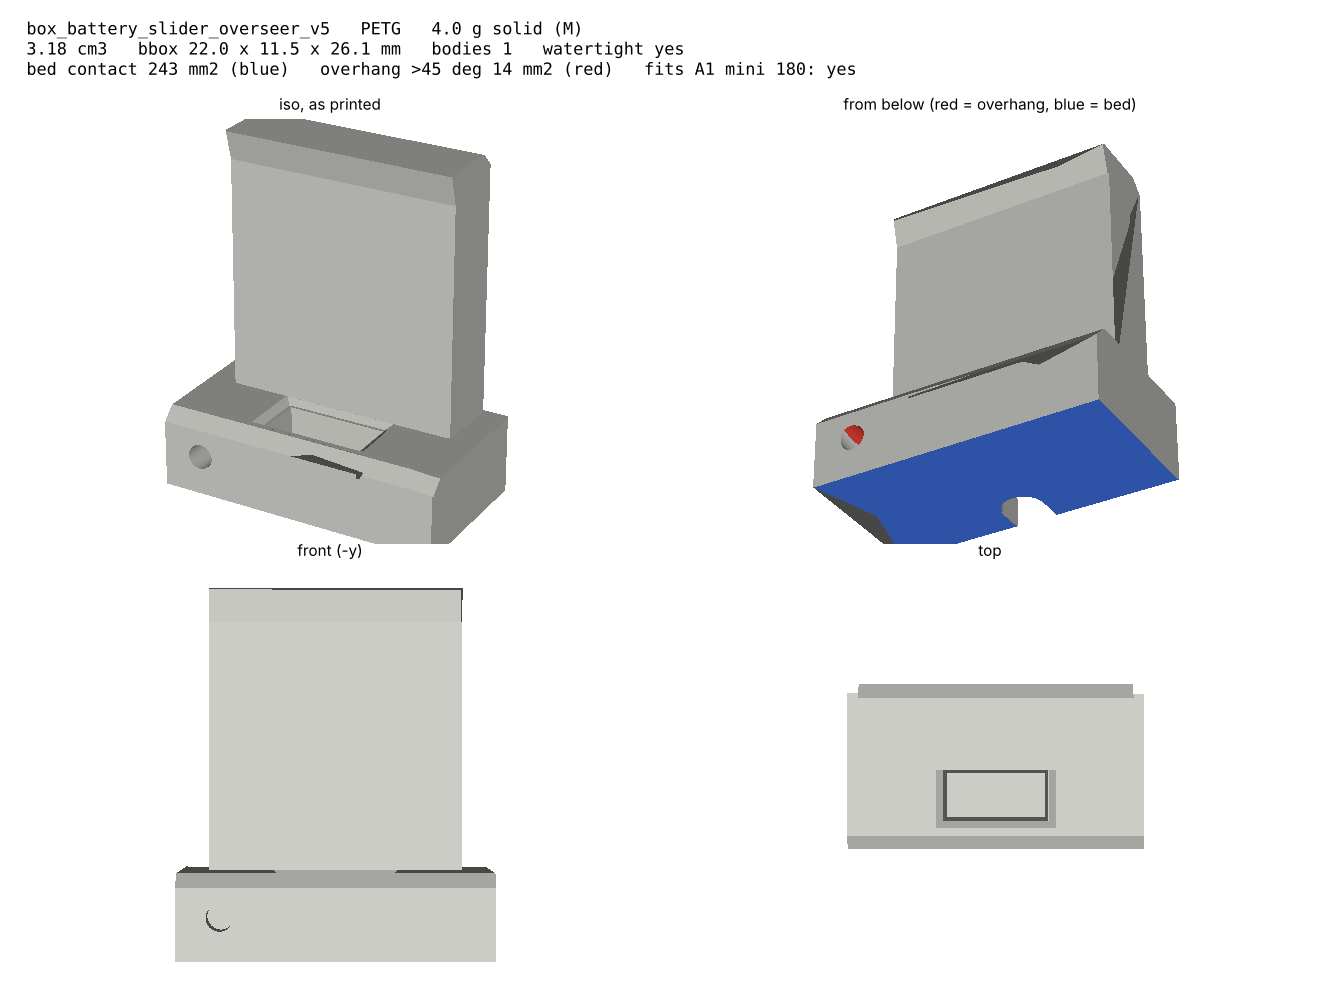
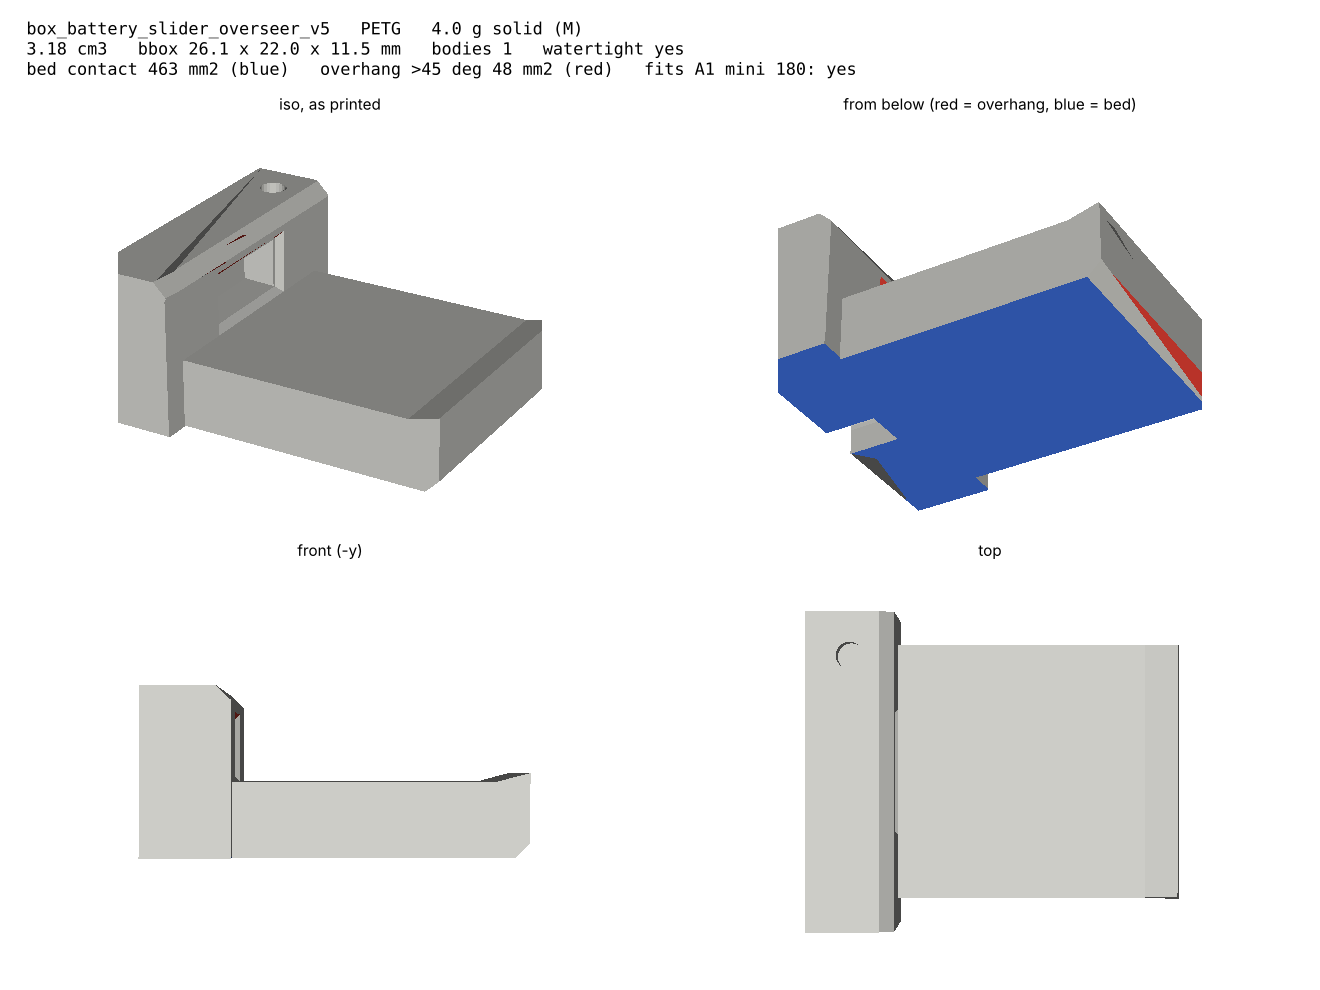
battery latch v1: sliders print bar top down (largest face), previews from the print files
Claude-Session: https://claude.ai/code/session_01MaK9mf9AZsHwQbiCFQxZ1G

diff --git a/nox/box/battery_latch.py b/nox/box/battery_latch.py
@@ -806,7 +806,7 @@ def _rot(axis, deg):
 
 PIECES = {   # name: (getter, material, print pose (c -> print), count, version, bed face)
     "cartridge": (lambda B: B["cart"], "PETG", np.eye(4), 1, "v5", "closed end (z 0) down"),
-    "slider": (lambda B: slider(B["g"], 0, 1), "PETG", _rot("y", -90), 2, "v5", "inner tab face down"),
+    "slider": (lambda B: slider(B["g"], 0, 1), "PETG", _rot("x", -90), 2, "v5", "bar top (y 11.5) down: largest face, bar layers along its length"),
     "receiver": (lambda B: B["recv"], "PETG", np.eye(4), 1, "v1", "closed-end face down"),
     "receiver_lid": (lambda B: B["lid"], "PETG", _rot("x", -90), 1, "v1", "top face down"),
     "receiver_strip": (lambda B: U(*[box(*sorted((B["r"]["X_IN"] - 1.55, B["r"]["RF"] - 0.05)), B["r"]["Y_TOP"], B["r"]["Y_TOP"] + STRIP_T,

diff --git a/runs/battery_latch/v1/summary.md b/runs/battery_latch/v1/summary.md
@@ -8,13 +8,13 @@ System: Scout v3 (pass 1 snapshot), cage first −3.1 mm at the tail-left bottom
 Weight: Scout set 87.9 g (M), was 122.3 (PR 44); Overseer set 187.6 g (M), new
 Strength: receiver FE crash worst 0.36 (Scout, −y) / 0.44 (Overseer, +z), handling 50 N on a foot 0.67 / 0.73; latch hand calc worst 0.35 / 0.39 (grip pull with the XT60)
 Solid: solid_check PASS on all 10 files
-Print: cartridge closed end down (bed 1267 / 3125 mm²), receiver closed-end face down (837 / 1251 mm²), lid top down, slider inner tab face down (243 mm², brim), strips flat (TPU); tree supports; files print/box_battery_*
+Print (each saved on its largest flat face): cartridge closed end down (bed 1267 / 3125 mm²), receiver closed-end face down (837 / 1251 mm²), lid top down, slider bar top down (328 / 463 mm², largest face; bar layers along its length), strips flat (TPU); tree supports; files print/box_battery_*
 ```
 
 | Piece | Scout g (M) | Overseer g (M) | Extents (print pose) | Bed mm² |
 |---|---|---|---|---|
 | cartridge v5 | 33.06 | 88.94 | 40 x 45.6 x 96 / 55 x 58.6 x 174 | 1267 / 3125 |
-| slider v5 (x 2) | 3.18 | 4.04 | 22 x 11.5 x 18.6 / 26.1 | 243 / 243 |
+| slider v5 (x 2) | 3.18 | 4.04 | 18.6 / 26.1 x 22 x 11.5 | 328 / 463 |
 | receiver v1 | 41.17 | 79.54 | 61.2 x 53.9 x 101.6 / 76.2 x 66.9 x 179.6 | 837 / 1251 |
 | receiver lid v1 | 5.34 | 6.87 | 61.2 x 20 x 5.5 / 76.2 x 20 x 5.5 | 1001 / 1301 |
 | receiver strip v1 (TPU, x 2) | 0.98 | 2.07 | 4.8 x 70.6 x 2.4 / 148.6 | 339 / 713 |

diff --git a/nox/box/battery-latch.md b/nox/box/battery-latch.md
@@ -35,7 +35,7 @@ Requirements (the brief): hold every L case for both packs; XT60 mates on insert
 | Piece | Material, count | Scout g (M) | Overseer g (M) | Print |
 |---|---|---|---|---|
 | `box_battery_cartridge_<pack>_v5` | PETG x 1 | 33.1 | 88.9 | closed end down, tree supports (174 tall for the Overseer) |
-| `box_battery_slider_<pack>_v5` | PETG x 2 (one part, both sides) | 3.2 | 4.0 | inner tab face down |
+| `box_battery_slider_<pack>_v5` | PETG x 2 (one part, both sides) | 3.2 | 4.0 | bar top down (largest face, layers along the bar) |
 | `box_battery_receiver_<pack>_v1` (latch block, drone and bays) | PETG x 1 | 41.2 | 79.5 | closed-end face down, tree supports |
 | `box_battery_receiver_lid_<pack>_v1` | PETG x 1 | 5.3 | 6.9 | top face down |
 | `box_battery_receiver_strip_<pack>_v1` | TPU 95A x 2 | 1.0 | 2.1 | flat |
